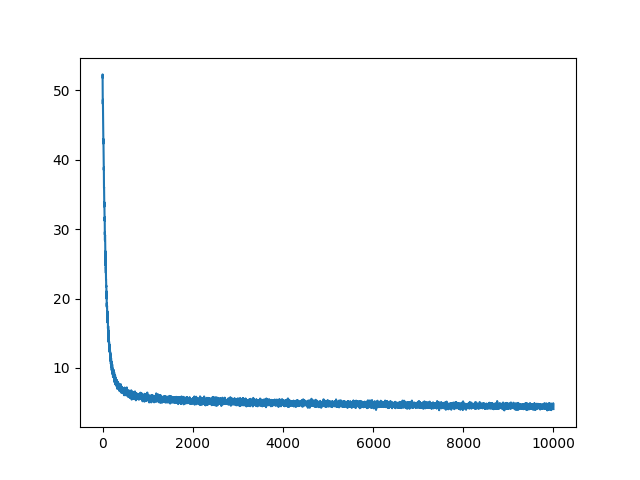
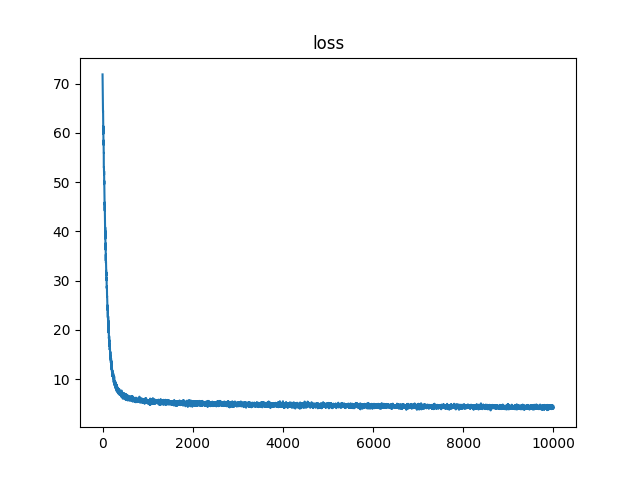
Fix log_reg

diff --git a/Log_reg.py b/Log_reg.py
@@ -110,10 +110,12 @@ def run():
 
     print("accuracy = ",pre_cnt/i)
     print("winrate accuracy = ",pre_wr/i)
+    plt.title('loss')
     plt.plot(costs,label='loss')
     plt.savefig("Logistic_costs.png")
     plt.show()
     plt.cla()
+    plt.title('eval loss')
     plt.plot(eval_costs,label='eval loss')
     plt.savefig("Logistic_evalloss.png")
     plt.show()
